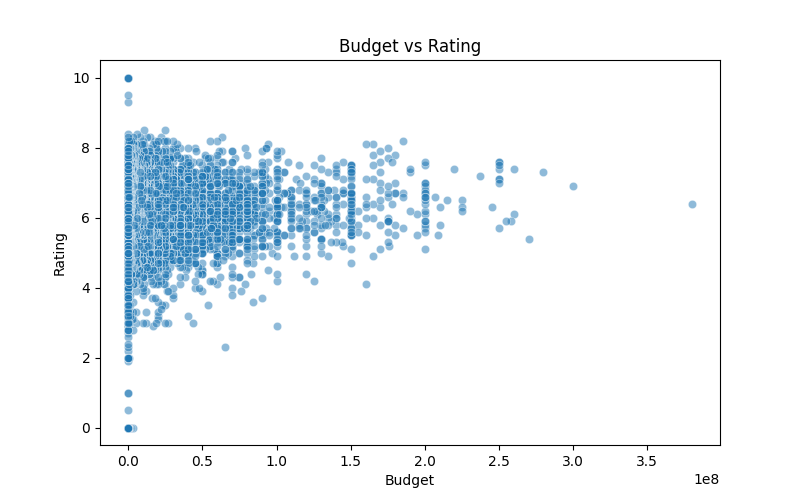
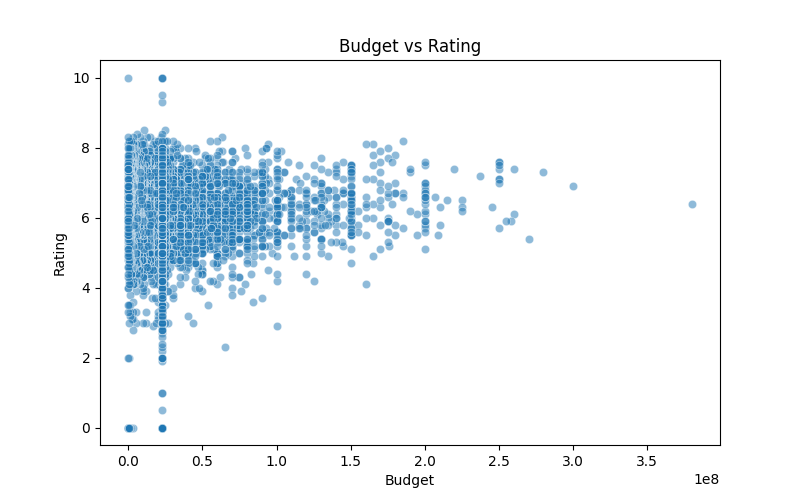
added code to generate budget and revenue histograms and pair plot of numerical data

Changed region(s): [[0.1562, 0.27, 0.2188, 0.75], [0.1562, 0.78, 0.2188, 0.87], [0.1562, 0.15, 0.2188, 0.21]]

diff --git a/cleaning_visualisation.py b/cleaning_visualisation.py
@@ -22,22 +22,20 @@ df.drop(columns=columns_to_drop, inplace=True, errors='ignore')
 
 df.rename(columns={'title_x': 'title'}, inplace=True)
 
-# Handle missing runtime
 df['runtime'].fillna(df['runtime'].median(), inplace=True)
 df.dropna(subset=['release_date', 'vote_average'], inplace=True)
 
-# Extract release year
 df['release_year'] = pd.to_datetime(df['release_date'], errors='coerce').dt.year
 
-# Fill missing/zero budgets with median
 df['budget'] = df['budget'].replace(0, np.nan)
 df['budget'].fillna(df['budget'].median(), inplace=True)
 
-# Fill missing/zero revenues with median
 df['revenue'] = df['revenue'].replace(0, np.nan)
 df['revenue'].fillna(df['revenue'].median(), inplace=True)
 
-# Extract genres
+df['profit'] = df['revenue'] - df['budget']
+df['roi'] = df['revenue'] / df['budget']
+
 def extract_genres(x):
     try:
         genres = [i['name'] for i in ast.literal_eval(x)]
@@ -47,7 +45,6 @@ def extract_genres(x):
 
 df['genres'] = df['genres'].apply(extract_genres)
 
-# Extract director
 def get_director(crew_data):
     try:
         crew_list = ast.literal_eval(crew_data)
@@ -98,6 +95,37 @@ plt.xlabel("Popularity")
 plt.ylabel("Rating")
 plt.show()
 
+skewness_revenue = df['revenue'].skew()
+skewness_budget = df['budget'].skew()
+
+print(f"Skewness of 'revenue': {skewness_revenue}")
+print(f"Skewness of 'budget': {skewness_budget}")
+
+plt.figure(figsize=(12, 6))
+
+plt.subplot(1, 2, 1)
+sns.histplot(df['budget'], bins=50, kde=True)
+plt.title("Distribution of Movie Budgets")
+plt.xlabel("Budget")
+plt.ylabel("Count")
+
+plt.subplot(1, 2, 2)
+sns.histplot(df['revenue'], bins=50, kde=True, color='orange')
+plt.title("Distribution of Movie Revenues")
+plt.xlabel("Revenue")
+plt.ylabel("Count")
+
+plt.tight_layout()
+plt.savefig('Budget Revenue Histograms.png')
+plt.show()
+
+numerical_features = ['budget', 'popularity', 'runtime', 'vote_count', 'revenue', 'release_year', 'vote_average']
+
+sns.pairplot(df[numerical_features])
+
+plt.savefig('Movie Pair Plot.png')
+plt.show()
+
 print("\nCleaned dataset shape:", df.shape)
 
-df.to_csv('./Data/Cleaned/movies_cleaned.csv', index=False)
+# df.to_csv('./Data/Cleaned/movies_cleaned.csv', index=False)
